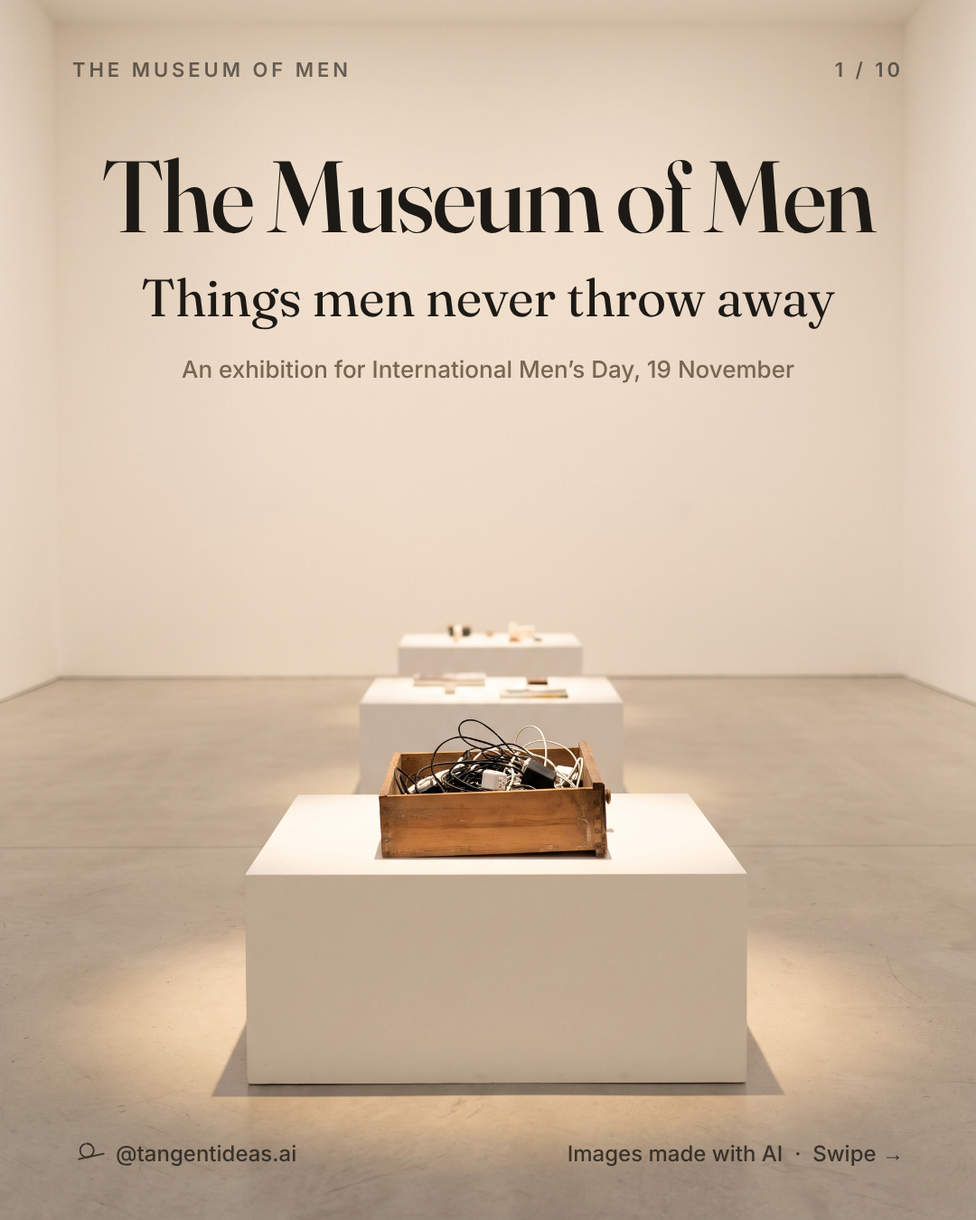
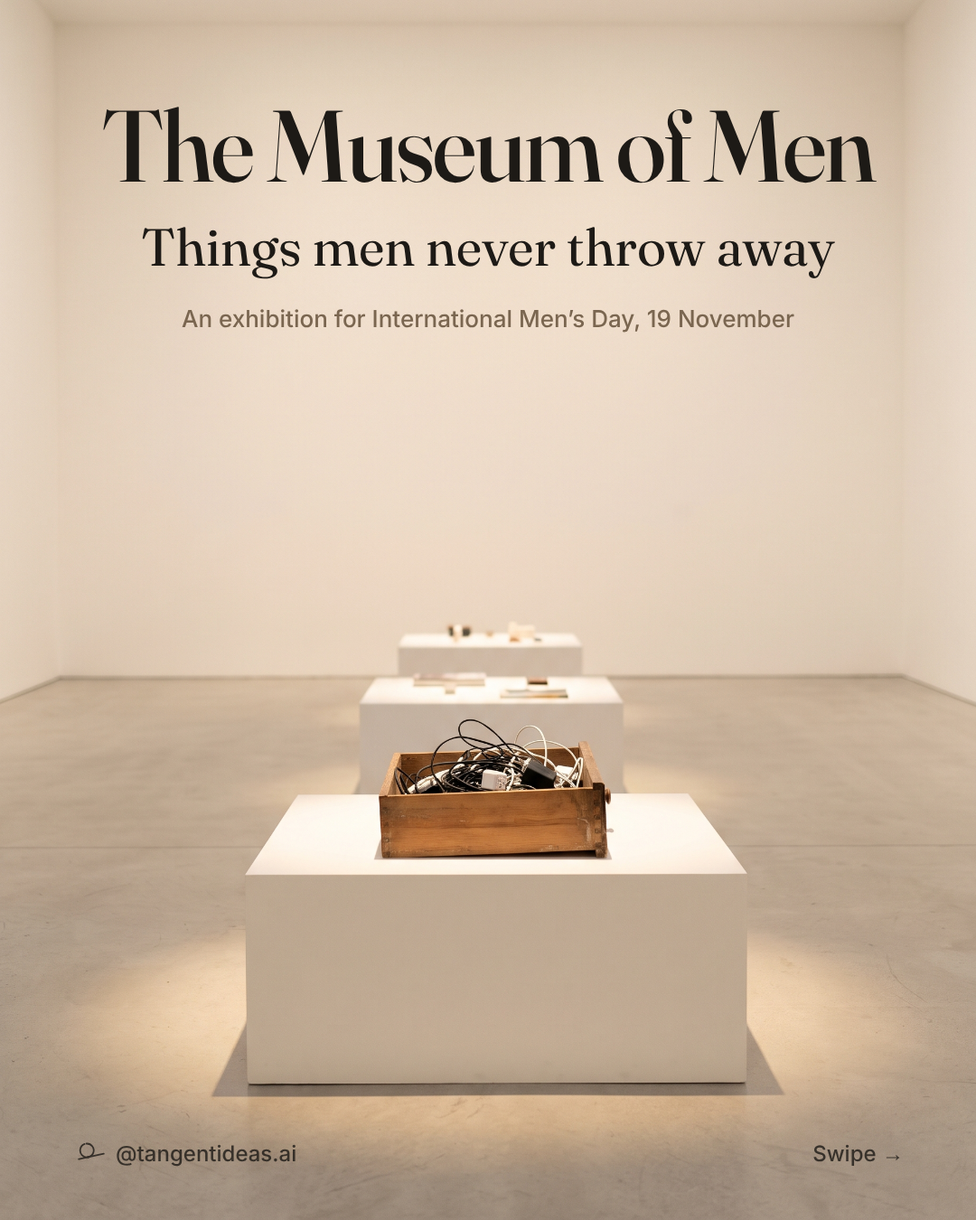
Museum of Men: drop headers and on-slide AI lines per Sparsh; disclosure kept on end card and caption
Claude-Session: https://claude.ai/code/session_01ETPVMQfxYKhapRnTByD51a

Changed region(s): [[0.0917, 0.0311, 0.9167, 0.3111], [0.5806, 0.9333, 0.7944, 0.9644], [0.3056, 0.0311, 0.3667, 0.0622]]

diff --git a/productions/2026-11-museum-of-men/slides-square/html/slide-01.html b/productions/2026-11-museum-of-men/slides-square/html/slide-01.html
@@ -5,19 +5,18 @@
 html,body{margin:0;width:1080px;height:1080px;overflow:hidden;color:#1d1a16}
 .slide{position:relative;width:1080px;height:1080px;padding:50px 72px 42px;display:flex;flex-direction:column}
 .top{display:flex;justify-content:space-between;font:600 22px Inter;letter-spacing:.18em;text-transform:uppercase;opacity:.62}
-.lbl{margin-top:34px;font:600 24px Inter;letter-spacing:.14em;text-transform:uppercase;color:#7a6650}
+.lbl{margin-top:6px;font:600 24px Inter;letter-spacing:.14em;text-transform:uppercase;color:#7a6650}
 h1{margin:14px 0 0;max-width:940px;font:400 56px/1.12 Fraunces,Georgia,serif;letter-spacing:-.012em;text-wrap:balance}
 .spacer{flex:1}
 .foot{display:flex;justify-content:space-between;align-items:center;font:500 24px Inter;opacity:.8}
 .foot .me{display:flex;gap:12px;align-items:center}
 .dark{color:#f6f1e8} .dark .lbl{color:#e6cfae}
-.cov{margin-top:40px;text-align:center}
+.cov{margin-top:24px;text-align:center}
 .t{max-width:none;margin:0;font:500 96px/1.02 Fraunces,Georgia,serif;letter-spacing:-.02em}
 .sub{margin-top:16px;font:400 50px/1.15 Fraunces,Georgia,serif}
 .ex{margin-top:22px;font:500 26px Inter;color:#7a6650}</style></head><body style="background:url('file:///home/user/tangent-social-media/productions/2026-11-museum-of-men/assets/gen/pick/slide-01.png') no-repeat;background-size:1080px 1340.6896551724137px;background-position:0px -174.56896551724137px"><div class="slide ">
-<div class="top"><span>The Museum of Men</span><span>1 / 10</span></div>
 <div class="cov"><h1 class="t">The Museum of Men</h1>
 <div class="sub">Things men never throw away</div>
 <div class="ex">An exhibition for International Men&rsquo;s Day, 19 November</div></div><div class="spacer"></div>
-<div class="foot"><span class="me"><svg viewBox="0 0 120 120" fill="none" width="36" height="36" style="color:currentColor"><path d="M 52.26 25.06 A 25 25 0 1 1 45.45 26.5" stroke="currentColor" stroke-width="6" stroke-linecap="round"/><line x1="24" y1="82" x2="116.2" y2="62.4" stroke="currentColor" stroke-width="6" stroke-linecap="round"/><circle cx="59.2" cy="74.5" r="4.85" fill="currentColor"/></svg><span>@tangentideas.ai</span></span><span>Images made with AI &nbsp;&middot;&nbsp; Swipe &rarr;</span></div>
+<div class="foot"><span class="me"><svg viewBox="0 0 120 120" fill="none" width="36" height="36" style="color:currentColor"><path d="M 52.26 25.06 A 25 25 0 1 1 45.45 26.5" stroke="currentColor" stroke-width="6" stroke-linecap="round"/><line x1="24" y1="82" x2="116.2" y2="62.4" stroke="currentColor" stroke-width="6" stroke-linecap="round"/><circle cx="59.2" cy="74.5" r="4.85" fill="currentColor"/></svg><span>@tangentideas.ai</span></span><span>Swipe &rarr;</span></div>
 </div></body></html>

diff --git a/productions/2026-11-museum-of-men/slides/html/slide-01.html b/productions/2026-11-museum-of-men/slides/html/slide-01.html
@@ -5,19 +5,18 @@
 html,body{margin:0;width:1080px;height:1350px;overflow:hidden;color:#1d1a16}
 .slide{position:relative;width:1080px;height:1350px;padding:64px 80px 56px;display:flex;flex-direction:column}
 .top{display:flex;justify-content:space-between;font:600 22px Inter;letter-spacing:.18em;text-transform:uppercase;opacity:.62}
-.lbl{margin-top:54px;font:600 24px Inter;letter-spacing:.14em;text-transform:uppercase;color:#7a6650}
+.lbl{margin-top:14px;font:600 24px Inter;letter-spacing:.14em;text-transform:uppercase;color:#7a6650}
 h1{margin:18px 0 0;max-width:920px;font:400 66px/1.13 Fraunces,Georgia,serif;letter-spacing:-.012em;text-wrap:balance}
 .spacer{flex:1}
 .foot{display:flex;justify-content:space-between;align-items:center;font:500 24px Inter;opacity:.8}
 .foot .me{display:flex;gap:12px;align-items:center}
 .dark{color:#f6f1e8} .dark .lbl{color:#e6cfae}
-.cov{margin-top:70px;text-align:center}
+.cov{margin-top:40px;text-align:center}
 .t{max-width:none;margin:0;font:500 112px/1.02 Fraunces,Georgia,serif;letter-spacing:-.02em}
 .sub{margin-top:22px;font:400 58px/1.15 Fraunces,Georgia,serif}
 .ex{margin-top:30px;font:500 26px Inter;color:#7a6650}</style></head><body style="background:url('file:///home/user/tangent-social-media/productions/2026-11-museum-of-men/assets/gen/pick/slide-01.png') center/cover no-repeat #eee"><div class="slide ">
-<div class="top"><span>The Museum of Men</span><span>1 / 10</span></div>
 <div class="cov"><h1 class="t">The Museum of Men</h1>
 <div class="sub">Things men never throw away</div>
 <div class="ex">An exhibition for International Men&rsquo;s Day, 19 November</div></div><div class="spacer"></div>
-<div class="foot"><span class="me"><svg viewBox="0 0 120 120" fill="none" width="36" height="36" style="color:currentColor"><path d="M 52.26 25.06 A 25 25 0 1 1 45.45 26.5" stroke="currentColor" stroke-width="6" stroke-linecap="round"/><line x1="24" y1="82" x2="116.2" y2="62.4" stroke="currentColor" stroke-width="6" stroke-linecap="round"/><circle cx="59.2" cy="74.5" r="4.85" fill="currentColor"/></svg><span>@tangentideas.ai</span></span><span>Images made with AI &nbsp;&middot;&nbsp; Swipe &rarr;</span></div>
+<div class="foot"><span class="me"><svg viewBox="0 0 120 120" fill="none" width="36" height="36" style="color:currentColor"><path d="M 52.26 25.06 A 25 25 0 1 1 45.45 26.5" stroke="currentColor" stroke-width="6" stroke-linecap="round"/><line x1="24" y1="82" x2="116.2" y2="62.4" stroke="currentColor" stroke-width="6" stroke-linecap="round"/><circle cx="59.2" cy="74.5" r="4.85" fill="currentColor"/></svg><span>@tangentideas.ai</span></span><span>Swipe &rarr;</span></div>
 </div></body></html>

diff --git a/productions/2026-11-museum-of-men/slides/html/slide-10.html b/productions/2026-11-museum-of-men/slides/html/slide-10.html
@@ -5,7 +5,7 @@
 html,body{margin:0;width:1080px;height:1350px;overflow:hidden;color:#1d1a16}
 .slide{position:relative;width:1080px;height:1350px;padding:64px 80px 56px;display:flex;flex-direction:column}
 .top{display:flex;justify-content:space-between;font:600 22px Inter;letter-spacing:.18em;text-transform:uppercase;opacity:.62}
-.lbl{margin-top:54px;font:600 24px Inter;letter-spacing:.14em;text-transform:uppercase;color:#7a6650}
+.lbl{margin-top:14px;font:600 24px Inter;letter-spacing:.14em;text-transform:uppercase;color:#7a6650}
 h1{margin:18px 0 0;max-width:920px;font:400 66px/1.13 Fraunces,Georgia,serif;letter-spacing:-.012em;text-wrap:balance}
 .spacer{flex:1}
 .foot{display:flex;justify-content:space-between;align-items:center;font:500 24px Inter;opacity:.8}
@@ -20,7 +20,6 @@ h1{margin:18px 0 0;max-width:920px;font:400 66px/1.13 Fraunces,Georgia,serif;let
 .rows{display:grid;gap:14px;font:500 30px Inter}
 .rows span{display:inline-block;width:190px;color:#7a6650;font-weight:500}
 .disc{margin-top:34px;font:400 22px Inter;color:#7a6650}</style></head><body style="background:url('file:///home/user/tangent-social-media/productions/2026-11-museum-of-men/assets/gen/pick/slide-03.png') no-repeat;background-size:2723.4782608695655px 3380.8695652173915px;background-position:-821.7391304347826px 0px"><div class="slide ">
-<div class="top"><span>The Museum of Men</span><span>10 / 10</span></div>
 <div class="card">
   <div class="cl">Exhibit 8 &middot; The maker</div>
   <div class="ct">The man who made this museum, with AI.</div>
@@ -32,7 +31,6 @@ h1{margin:18px 0 0;max-width:920px;font:400 66px/1.13 Fraunces,Georgia,serif;let
     <div><span>Medium</span>@tangentideasai</div>
     <div><span>Web</span>tangentideas.ai</div>
   </div>
-  <div class="disc">Images made with AI. Idea and words by a human.</div>
 </div><div class="spacer"></div>
 <div class="foot"><span class="me"><svg viewBox="0 0 120 120" fill="none" width="36" height="36" style="color:currentColor"><path d="M 52.26 25.06 A 25 25 0 1 1 45.45 26.5" stroke="currentColor" stroke-width="6" stroke-linecap="round"/><line x1="24" y1="82" x2="116.2" y2="62.4" stroke="currentColor" stroke-width="6" stroke-linecap="round"/><circle cx="59.2" cy="74.5" r="4.85" fill="currentColor"/></svg><span>@tangentideas.ai</span></span><span></span></div>
 </div></body></html>

diff --git a/productions/2026-11-museum-of-men/slides-square/html/slide-10.html b/productions/2026-11-museum-of-men/slides-square/html/slide-10.html
@@ -5,7 +5,7 @@
 html,body{margin:0;width:1080px;height:1080px;overflow:hidden;color:#1d1a16}
 .slide{position:relative;width:1080px;height:1080px;padding:50px 72px 42px;display:flex;flex-direction:column}
 .top{display:flex;justify-content:space-between;font:600 22px Inter;letter-spacing:.18em;text-transform:uppercase;opacity:.62}
-.lbl{margin-top:34px;font:600 24px Inter;letter-spacing:.14em;text-transform:uppercase;color:#7a6650}
+.lbl{margin-top:6px;font:600 24px Inter;letter-spacing:.14em;text-transform:uppercase;color:#7a6650}
 h1{margin:14px 0 0;max-width:940px;font:400 56px/1.12 Fraunces,Georgia,serif;letter-spacing:-.012em;text-wrap:balance}
 .spacer{flex:1}
 .foot{display:flex;justify-content:space-between;align-items:center;font:500 24px Inter;opacity:.8}
@@ -20,7 +20,6 @@ h1{margin:14px 0 0;max-width:940px;font:400 56px/1.12 Fraunces,Georgia,serif;let
 .rows{display:grid;gap:10px;font:500 27px Inter}
 .rows span{display:inline-block;width:190px;color:#7a6650;font-weight:500}
 .disc{margin-top:26px;font:400 22px Inter;color:#7a6650}</style></head><body style="background:url('file:///home/user/tangent-social-media/productions/2026-11-museum-of-men/assets/gen/pick/slide-03.png') no-repeat;background-size:2723.4782608695655px 3380.8695652173915px;background-position:-821.7391304347826px 0px"><div class="slide ">
-<div class="top"><span>The Museum of Men</span><span>10 / 10</span></div>
 <div class="card">
   <div class="cl">Exhibit 8 &middot; The maker</div>
   <div class="ct">The man who made this museum, with AI.</div>
@@ -32,7 +31,6 @@ h1{margin:14px 0 0;max-width:940px;font:400 56px/1.12 Fraunces,Georgia,serif;let
     <div><span>Medium</span>@tangentideasai</div>
     <div><span>Web</span>tangentideas.ai</div>
   </div>
-  <div class="disc">Images made with AI. Idea and words by a human.</div>
 </div><div class="spacer"></div>
 <div class="foot"><span class="me"><svg viewBox="0 0 120 120" fill="none" width="36" height="36" style="color:currentColor"><path d="M 52.26 25.06 A 25 25 0 1 1 45.45 26.5" stroke="currentColor" stroke-width="6" stroke-linecap="round"/><line x1="24" y1="82" x2="116.2" y2="62.4" stroke="currentColor" stroke-width="6" stroke-linecap="round"/><circle cx="59.2" cy="74.5" r="4.85" fill="currentColor"/></svg><span>@tangentideas.ai</span></span><span></span></div>
 </div></body></html>

diff --git a/productions/2026-11-museum-of-men/slides-square/html/slide-09.html b/productions/2026-11-museum-of-men/slides-square/html/slide-09.html
@@ -5,14 +5,13 @@
 html,body{margin:0;width:1080px;height:1080px;overflow:hidden;color:#1d1a16}
 .slide{position:relative;width:1080px;height:1080px;padding:50px 72px 42px;display:flex;flex-direction:column}
 .top{display:flex;justify-content:space-between;font:600 22px Inter;letter-spacing:.18em;text-transform:uppercase;opacity:.62}
-.lbl{margin-top:34px;font:600 24px Inter;letter-spacing:.14em;text-transform:uppercase;color:#7a6650}
+.lbl{margin-top:6px;font:600 24px Inter;letter-spacing:.14em;text-transform:uppercase;color:#7a6650}
 h1{margin:14px 0 0;max-width:940px;font:400 56px/1.12 Fraunces,Georgia,serif;letter-spacing:-.012em;text-wrap:balance}
 .spacer{flex:1}
 .foot{display:flex;justify-content:space-between;align-items:center;font:500 24px Inter;opacity:.8}
 .foot .me{display:flex;gap:12px;align-items:center}
 .dark{color:#f6f1e8} .dark .lbl{color:#e6cfae}
-.close{margin-top:40px;font-size:54px;max-width:860px;text-shadow:0 2px 18px rgba(0,0,0,.35)}</style></head><body style="background:url('file:///home/user/tangent-social-media/productions/2026-11-museum-of-men/assets/gen/pick/slide-09.png') no-repeat;background-size:1080px 1340.6896551724137px;background-position:0px -260.6896551724138px"><div class="slide dark">
-<div class="top"><span>The Museum of Men</span><span>9 / 10</span></div>
+.close{margin-top:0;font-size:54px;max-width:860px;text-shadow:0 2px 18px rgba(0,0,0,.35)}</style></head><body style="background:url('file:///home/user/tangent-social-media/productions/2026-11-museum-of-men/assets/gen/pick/slide-09.png') no-repeat;background-size:1080px 1340.6896551724137px;background-position:0px -260.6896551724138px"><div class="slide dark">
 <h1 class="close">Men keep a lot to themselves. Today, ask one how he&rsquo;s really doing.</h1><div class="spacer"></div>
 <div class="foot"><span class="me"><svg viewBox="0 0 120 120" fill="none" width="36" height="36" style="color:currentColor"><path d="M 52.26 25.06 A 25 25 0 1 1 45.45 26.5" stroke="currentColor" stroke-width="6" stroke-linecap="round"/><line x1="24" y1="82" x2="116.2" y2="62.4" stroke="currentColor" stroke-width="6" stroke-linecap="round"/><circle cx="59.2" cy="74.5" r="4.85" fill="currentColor"/></svg><span>@tangentideas.ai</span></span><span></span></div>
 </div></body></html>

diff --git a/productions/2026-11-museum-of-men/slides/html/slide-09.html b/productions/2026-11-museum-of-men/slides/html/slide-09.html
@@ -5,14 +5,13 @@
 html,body{margin:0;width:1080px;height:1350px;overflow:hidden;color:#1d1a16}
 .slide{position:relative;width:1080px;height:1350px;padding:64px 80px 56px;display:flex;flex-direction:column}
 .top{display:flex;justify-content:space-between;font:600 22px Inter;letter-spacing:.18em;text-transform:uppercase;opacity:.62}
-.lbl{margin-top:54px;font:600 24px Inter;letter-spacing:.14em;text-transform:uppercase;color:#7a6650}
+.lbl{margin-top:14px;font:600 24px Inter;letter-spacing:.14em;text-transform:uppercase;color:#7a6650}
 h1{margin:18px 0 0;max-width:920px;font:400 66px/1.13 Fraunces,Georgia,serif;letter-spacing:-.012em;text-wrap:balance}
 .spacer{flex:1}
 .foot{display:flex;justify-content:space-between;align-items:center;font:500 24px Inter;opacity:.8}
 .foot .me{display:flex;gap:12px;align-items:center}
 .dark{color:#f6f1e8} .dark .lbl{color:#e6cfae}
-.close{margin-top:70px;font-size:70px;text-shadow:0 2px 18px rgba(0,0,0,.35)}</style></head><body style="background:url('file:///home/user/tangent-social-media/productions/2026-11-museum-of-men/assets/gen/pick/slide-09.png') center/cover no-repeat #eee"><div class="slide dark">
-<div class="top"><span>The Museum of Men</span><span>9 / 10</span></div>
+.close{margin-top:20px;font-size:70px;text-shadow:0 2px 18px rgba(0,0,0,.35)}</style></head><body style="background:url('file:///home/user/tangent-social-media/productions/2026-11-museum-of-men/assets/gen/pick/slide-09.png') center/cover no-repeat #eee"><div class="slide dark">
 <h1 class="close">Men keep a lot to themselves. Today, ask one how he&rsquo;s really doing.</h1><div class="spacer"></div>
 <div class="foot"><span class="me"><svg viewBox="0 0 120 120" fill="none" width="36" height="36" style="color:currentColor"><path d="M 52.26 25.06 A 25 25 0 1 1 45.45 26.5" stroke="currentColor" stroke-width="6" stroke-linecap="round"/><line x1="24" y1="82" x2="116.2" y2="62.4" stroke="currentColor" stroke-width="6" stroke-linecap="round"/><circle cx="59.2" cy="74.5" r="4.85" fill="currentColor"/></svg><span>@tangentideas.ai</span></span><span></span></div>
 </div></body></html>

diff --git a/productions/2026-11-museum-of-men/slides-square/html/slide-05.html b/productions/2026-11-museum-of-men/slides-square/html/slide-05.html
@@ -5,14 +5,13 @@
 html,body{margin:0;width:1080px;height:1080px;overflow:hidden;color:#1d1a16}
 .slide{position:relative;width:1080px;height:1080px;padding:50px 72px 42px;display:flex;flex-direction:column}
 .top{display:flex;justify-content:space-between;font:600 22px Inter;letter-spacing:.18em;text-transform:uppercase;opacity:.62}
-.lbl{margin-top:34px;font:600 24px Inter;letter-spacing:.14em;text-transform:uppercase;color:#7a6650}
+.lbl{margin-top:6px;font:600 24px Inter;letter-spacing:.14em;text-transform:uppercase;color:#7a6650}
 h1{margin:14px 0 0;max-width:940px;font:400 56px/1.12 Fraunces,Georgia,serif;letter-spacing:-.012em;text-wrap:balance}
 .spacer{flex:1}
 .foot{display:flex;justify-content:space-between;align-items:center;font:500 24px Inter;opacity:.8}
 .foot .me{display:flex;gap:12px;align-items:center}
 .dark{color:#f6f1e8} .dark .lbl{color:#e6cfae}
 </style></head><body style="background:url('file:///home/user/tangent-social-media/productions/2026-11-museum-of-men/assets/gen/pick/slide-05.png') no-repeat;background-size:1080px 1340.6896551724137px;background-position:0px -174.56896551724137px"><div class="slide ">
-<div class="top"><span>The Museum of Men</span><span>5 / 10</span></div>
 <div class="lbl">Exhibit 4 &middot; His chappals</div><h1>His chappals are twelve years old. He says they&rsquo;re still fine.</h1><div class="spacer"></div>
 <div class="foot"><span class="me"><svg viewBox="0 0 120 120" fill="none" width="36" height="36" style="color:currentColor"><path d="M 52.26 25.06 A 25 25 0 1 1 45.45 26.5" stroke="currentColor" stroke-width="6" stroke-linecap="round"/><line x1="24" y1="82" x2="116.2" y2="62.4" stroke="currentColor" stroke-width="6" stroke-linecap="round"/><circle cx="59.2" cy="74.5" r="4.85" fill="currentColor"/></svg><span>@tangentideas.ai</span></span><span></span></div>
 </div></body></html>

diff --git a/productions/2026-11-museum-of-men/slides-square/html/slide-07.html b/productions/2026-11-museum-of-men/slides-square/html/slide-07.html
@@ -5,14 +5,13 @@
 html,body{margin:0;width:1080px;height:1080px;overflow:hidden;color:#1d1a16}
 .slide{position:relative;width:1080px;height:1080px;padding:50px 72px 42px;display:flex;flex-direction:column}
 .top{display:flex;justify-content:space-between;font:600 22px Inter;letter-spacing:.18em;text-transform:uppercase;opacity:.62}
-.lbl{margin-top:34px;font:600 24px Inter;letter-spacing:.14em;text-transform:uppercase;color:#7a6650}
+.lbl{margin-top:6px;font:600 24px Inter;letter-spacing:.14em;text-transform:uppercase;color:#7a6650}
 h1{margin:14px 0 0;max-width:940px;font:400 56px/1.12 Fraunces,Georgia,serif;letter-spacing:-.012em;text-wrap:balance}
 .spacer{flex:1}
 .foot{display:flex;justify-content:space-between;align-items:center;font:500 24px Inter;opacity:.8}
 .foot .me{display:flex;gap:12px;align-items:center}
 .dark{color:#f6f1e8} .dark .lbl{color:#e6cfae}
 </style></head><body style="background:url('file:///home/user/tangent-social-media/productions/2026-11-museum-of-men/assets/gen/pick/slide-07.png') no-repeat;background-size:1080px 1340.6896551724137px;background-position:0px -174.56896551724137px"><div class="slide ">
-<div class="top"><span>The Museum of Men</span><span>7 / 10</span></div>
 <div class="lbl">Exhibit 6 &middot; The remote</div><h1>The TV remote is still in its plastic cover. The TV is nine years old.</h1><div class="spacer"></div>
 <div class="foot"><span class="me"><svg viewBox="0 0 120 120" fill="none" width="36" height="36" style="color:currentColor"><path d="M 52.26 25.06 A 25 25 0 1 1 45.45 26.5" stroke="currentColor" stroke-width="6" stroke-linecap="round"/><line x1="24" y1="82" x2="116.2" y2="62.4" stroke="currentColor" stroke-width="6" stroke-linecap="round"/><circle cx="59.2" cy="74.5" r="4.85" fill="currentColor"/></svg><span>@tangentideas.ai</span></span><span></span></div>
 </div></body></html>

diff --git a/productions/2026-11-museum-of-men/slides-square/html/slide-04.html b/productions/2026-11-museum-of-men/slides-square/html/slide-04.html
@@ -5,14 +5,13 @@
 html,body{margin:0;width:1080px;height:1080px;overflow:hidden;color:#1d1a16}
 .slide{position:relative;width:1080px;height:1080px;padding:50px 72px 42px;display:flex;flex-direction:column}
 .top{display:flex;justify-content:space-between;font:600 22px Inter;letter-spacing:.18em;text-transform:uppercase;opacity:.62}
-.lbl{margin-top:34px;font:600 24px Inter;letter-spacing:.14em;text-transform:uppercase;color:#7a6650}
+.lbl{margin-top:6px;font:600 24px Inter;letter-spacing:.14em;text-transform:uppercase;color:#7a6650}
 h1{margin:14px 0 0;max-width:940px;font:400 56px/1.12 Fraunces,Georgia,serif;letter-spacing:-.012em;text-wrap:balance}
 .spacer{flex:1}
 .foot{display:flex;justify-content:space-between;align-items:center;font:500 24px Inter;opacity:.8}
 .foot .me{display:flex;gap:12px;align-items:center}
 .dark{color:#f6f1e8} .dark .lbl{color:#e6cfae}
 </style></head><body style="background:url('file:///home/user/tangent-social-media/productions/2026-11-museum-of-men/assets/gen/pick/slide-04.png') no-repeat;background-size:1080px 1340.6896551724137px;background-position:0px -174.56896551724137px"><div class="slide ">
-<div class="top"><span>The Museum of Men</span><span>4 / 10</span></div>
 <div class="lbl">Exhibit 3 &middot; The mystery keys</div><h1>Nobody knows what these keys open. Nobody can throw them away.</h1><div class="spacer"></div>
 <div class="foot"><span class="me"><svg viewBox="0 0 120 120" fill="none" width="36" height="36" style="color:currentColor"><path d="M 52.26 25.06 A 25 25 0 1 1 45.45 26.5" stroke="currentColor" stroke-width="6" stroke-linecap="round"/><line x1="24" y1="82" x2="116.2" y2="62.4" stroke="currentColor" stroke-width="6" stroke-linecap="round"/><circle cx="59.2" cy="74.5" r="4.85" fill="currentColor"/></svg><span>@tangentideas.ai</span></span><span></span></div>
 </div></body></html>

diff --git a/productions/2026-11-museum-of-men/slides-square/html/slide-02.html b/productions/2026-11-museum-of-men/slides-square/html/slide-02.html
@@ -5,14 +5,13 @@
 html,body{margin:0;width:1080px;height:1080px;overflow:hidden;color:#1d1a16}
 .slide{position:relative;width:1080px;height:1080px;padding:50px 72px 42px;display:flex;flex-direction:column}
 .top{display:flex;justify-content:space-between;font:600 22px Inter;letter-spacing:.18em;text-transform:uppercase;opacity:.62}
-.lbl{margin-top:34px;font:600 24px Inter;letter-spacing:.14em;text-transform:uppercase;color:#7a6650}
+.lbl{margin-top:6px;font:600 24px Inter;letter-spacing:.14em;text-transform:uppercase;color:#7a6650}
 h1{margin:14px 0 0;max-width:940px;font:400 56px/1.12 Fraunces,Georgia,serif;letter-spacing:-.012em;text-wrap:balance}
 .spacer{flex:1}
 .foot{display:flex;justify-content:space-between;align-items:center;font:500 24px Inter;opacity:.8}
 .foot .me{display:flex;gap:12px;align-items:center}
 .dark{color:#f6f1e8} .dark .lbl{color:#e6cfae}
 </style></head><body style="background:url('file:///home/user/tangent-social-media/productions/2026-11-museum-of-men/assets/gen/pick/slide-02.png') no-repeat;background-size:1080px 1340.6896551724137px;background-position:0px -174.56896551724137px"><div class="slide ">
-<div class="top"><span>The Museum of Men</span><span>2 / 10</span></div>
 <div class="lbl">Exhibit 1 &middot; The cable drawer</div><h1>Chargers for phones nobody has used in years. Just in case.</h1><div class="spacer"></div>
 <div class="foot"><span class="me"><svg viewBox="0 0 120 120" fill="none" width="36" height="36" style="color:currentColor"><path d="M 52.26 25.06 A 25 25 0 1 1 45.45 26.5" stroke="currentColor" stroke-width="6" stroke-linecap="round"/><line x1="24" y1="82" x2="116.2" y2="62.4" stroke="currentColor" stroke-width="6" stroke-linecap="round"/><circle cx="59.2" cy="74.5" r="4.85" fill="currentColor"/></svg><span>@tangentideas.ai</span></span><span></span></div>
 </div></body></html>

diff --git a/productions/2026-11-museum-of-men/slides-square/html/slide-06.html b/productions/2026-11-museum-of-men/slides-square/html/slide-06.html
@@ -5,14 +5,13 @@
 html,body{margin:0;width:1080px;height:1080px;overflow:hidden;color:#1d1a16}
 .slide{position:relative;width:1080px;height:1080px;padding:50px 72px 42px;display:flex;flex-direction:column}
 .top{display:flex;justify-content:space-between;font:600 22px Inter;letter-spacing:.18em;text-transform:uppercase;opacity:.62}
-.lbl{margin-top:34px;font:600 24px Inter;letter-spacing:.14em;text-transform:uppercase;color:#7a6650}
+.lbl{margin-top:6px;font:600 24px Inter;letter-spacing:.14em;text-transform:uppercase;color:#7a6650}
 h1{margin:14px 0 0;max-width:940px;font:400 56px/1.12 Fraunces,Georgia,serif;letter-spacing:-.012em;text-wrap:balance}
 .spacer{flex:1}
 .foot{display:flex;justify-content:space-between;align-items:center;font:500 24px Inter;opacity:.8}
 .foot .me{display:flex;gap:12px;align-items:center}
 .dark{color:#f6f1e8} .dark .lbl{color:#e6cfae}
 </style></head><body style="background:url('file:///home/user/tangent-social-media/productions/2026-11-museum-of-men/assets/gen/pick/slide-06.png') no-repeat;background-size:1080px 1340.6896551724137px;background-position:0px -174.56896551724137px"><div class="slide ">
-<div class="top"><span>The Museum of Men</span><span>6 / 10</span></div>
 <div class="lbl">Exhibit 5 &middot; The T-shirt</div><h1>His college T-shirt became his gym T-shirt. Next, a car cloth.</h1><div class="spacer"></div>
 <div class="foot"><span class="me"><svg viewBox="0 0 120 120" fill="none" width="36" height="36" style="color:currentColor"><path d="M 52.26 25.06 A 25 25 0 1 1 45.45 26.5" stroke="currentColor" stroke-width="6" stroke-linecap="round"/><line x1="24" y1="82" x2="116.2" y2="62.4" stroke="currentColor" stroke-width="6" stroke-linecap="round"/><circle cx="59.2" cy="74.5" r="4.85" fill="currentColor"/></svg><span>@tangentideas.ai</span></span><span></span></div>
 </div></body></html>

diff --git a/productions/2026-11-museum-of-men/slides-square/html/slide-03.html b/productions/2026-11-museum-of-men/slides-square/html/slide-03.html
@@ -5,14 +5,13 @@
 html,body{margin:0;width:1080px;height:1080px;overflow:hidden;color:#1d1a16}
 .slide{position:relative;width:1080px;height:1080px;padding:50px 72px 42px;display:flex;flex-direction:column}
 .top{display:flex;justify-content:space-between;font:600 22px Inter;letter-spacing:.18em;text-transform:uppercase;opacity:.62}
-.lbl{margin-top:34px;font:600 24px Inter;letter-spacing:.14em;text-transform:uppercase;color:#7a6650}
+.lbl{margin-top:6px;font:600 24px Inter;letter-spacing:.14em;text-transform:uppercase;color:#7a6650}
 h1{margin:14px 0 0;max-width:940px;font:400 56px/1.12 Fraunces,Georgia,serif;letter-spacing:-.012em;text-wrap:balance}
 .spacer{flex:1}
 .foot{display:flex;justify-content:space-between;align-items:center;font:500 24px Inter;opacity:.8}
 .foot .me{display:flex;gap:12px;align-items:center}
 .dark{color:#f6f1e8} .dark .lbl{color:#e6cfae}
 </style></head><body style="background:url('file:///home/user/tangent-social-media/productions/2026-11-museum-of-men/assets/gen/pick/slide-03.png') no-repeat;background-size:1080px 1340.6896551724137px;background-position:0px -174.56896551724137px"><div class="slide ">
-<div class="top"><span>The Museum of Men</span><span>3 / 10</span></div>
 <div class="lbl">Exhibit 2 &middot; The phone box</div><h1>He kept his phone&rsquo;s box, to sell the phone one day.</h1><div class="spacer"></div>
 <div class="foot"><span class="me"><svg viewBox="0 0 120 120" fill="none" width="36" height="36" style="color:currentColor"><path d="M 52.26 25.06 A 25 25 0 1 1 45.45 26.5" stroke="currentColor" stroke-width="6" stroke-linecap="round"/><line x1="24" y1="82" x2="116.2" y2="62.4" stroke="currentColor" stroke-width="6" stroke-linecap="round"/><circle cx="59.2" cy="74.5" r="4.85" fill="currentColor"/></svg><span>@tangentideas.ai</span></span><span></span></div>
 </div></body></html>
